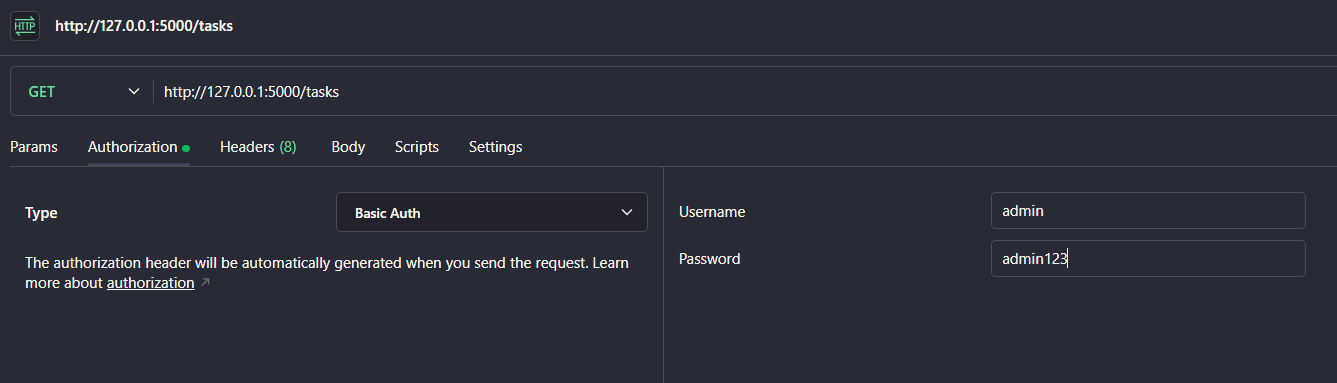
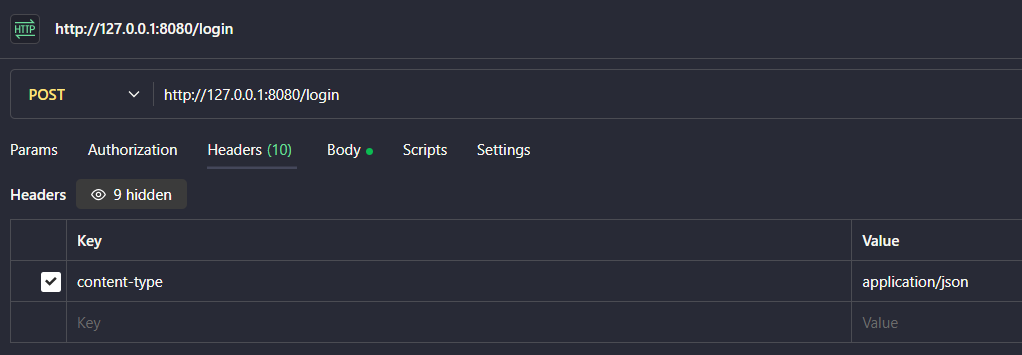
atualizando o README: postman

diff --git a/README.md b/README.md
@@ -145,7 +145,6 @@ Importante ressaltar que o ambiente virtual deve estar ativo e com as dependênc
 
 
 ### Usando Postman
-<!-- editar imagens e informações -->
 
 ![Imagem Postman 1](images/postman1.png)
 
@@ -156,37 +155,55 @@ Primeiro, certifique-se de que você possui a extensão baixada. Caso não possu
 
 Com a extensão instalada, você já pode testar a API.
 
-1. com a API funcionando, insira no campo de URL a seguinte URL: http://127.0.0.1:8080/tasks
+1. com a API funcionando, insira no campo de URL a seguinte URL: http://127.0.0.1:8080/login
 
 ![Imagem Postman 4](images/postman4.png)
 
-2. vá na aba "Authorization" e selecione "Basic Auth". após isso, insira "admin" como usuário e "admin123" como senha.
+2. selecione o método "POST". Em seguida, vá até o headers, defina key como "content-type" e value como "application/json". 
 
 ![Imagem Postman 5](images/postman5.png)
 
-3. vá na aba "Headers" e digite: "content-type" como key, "application/json" como value.
+3. Em seguida, vá até a aba body e selecione "raw". Após isso, envie em formato JSON o usuário ("admin") e a senha ("admin123"). O retorno esperado é um JSON com o token, num formato semelhante ao que segue:
 
 ![Imagem Postman 6](images/postman6.png)
 
-A partir daqui, já é possível executar o método "GET", pois ele não recebe nenhum parâmetro.
+Esse token será necessário para fazer as requisições.
+
+3. altere a URL para http://127.0.0.1:8080/tasks e insira no headers:
+
+content-type: application/json (caso não esteja)
+authorization: Bearer + token
 
 ![Imagem Postman 7](images/postman7.png)
 
-4. Caso queira executar o método "POST", selecione o mesmo no menu ao lado do campo de URL. após isso, vá ao body e selecione "raw". uma vez selecionado, você pode inserir os dados que desejar (título, descrição e marcar como feito ou não) em formato JSON, mas tome cuidado com as condições. O resultado deve ser o seguinte:
+Com esses passos feitos, é possível obter o método "GET", mas ele estará vazio.
+
+4. para obter o método "POST", vá até a aba body e selecione "raw". Em seguida, envie em formato JSON a tarefa com seus respectivos atributos (título é obrigatório). A entrada e a saída esperadas devem ser as seguintes:
 
 ![Imagem Postman 8](images/postman8.png)
 
-5. Para executar os métodos "PUT" e "DELETE", é preciso adicionar "/" e o ID da tarefa à URL. EX.:
+Executando o método "GET" após a criação da tarefa, a saÍda esperada deve ser a seguinte:
 
 ![Imagem Postman 9](images/postman9.png)
 
-O método "DELETE" não necessita nenhum parâmetro a mais, diferente do método "PUT".
-
-6. Para executar o método "PUT", o processo é semelhante ao processo do método "POST": selecione o mesmo no menu ao lado do campo de URL. após isso, vá ao body e selecione "raw". uma vez selecionado, você pode alterar os dados que desejar (título, descrição e marcar como feito ou não) em formato JSON, mas tome cuidado com as condições. O resultado deve ser o seguinte:
+Para trocar a página, basta adicionar "?page=" e a página desejada. EX.: http://127.0.0.1:8080/tasks?page=2
 
 ![Imagem Postman 10](images/postman10.png)
 
+5. para obter os métodos "PUT" e "DELETE", adicione à URL "/" e o ID da tarefa a ser alterada. EX.: http://127.0.0.1:8080/tasks/1
 
+![Imagem Postman 11](images/postman11.png)
+
+Com essa alteração, é possível obter o método "DELETE".
+
+6. Para o método "PUT", vá até a aba body e selecione "raw". Em seguida, envie em formato JSON as alterações que desejar fazer (obedecendo às regras estabelecidas pra cada atributo).<br>
+Importante ressaltar que é possível alterar qualquer atributo (título, descrição e marcador de feito), desde que obedeça as regras de cada atributo. A entrada e a saída esperadas devem ser as seguintes:
+
+![Imagem Postman 12](images/postman12.png)
+
+Ao executar o método "DELETE", nenhuma saída é esperada, como no exemplo que segue:
+
+![Imagem Postman 13](images/postman13.png)
 
 ### Usando requests
 Você já deve possuir a biblioteca requests instalada no ambiente virtual. Portanto, você já pode testar a API.
@@ -266,4 +283,4 @@ Todos os testes devem ser bem-sucedidos. Ignore warnings, caso haja.
 ![Imagem Pytest 9](images/pytest9.png)
 
 ## Observações importantes:
-1. O projeto, apesar de estar funcionando, está sujeito a sofrer alterações e implementações de novas funções no futuro
+1. O projeto, apesar de estar funcionando, está sujeito a sofrer alterações e implementações de novas funções no futuro.
